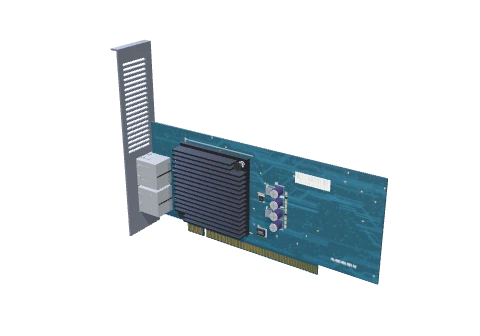
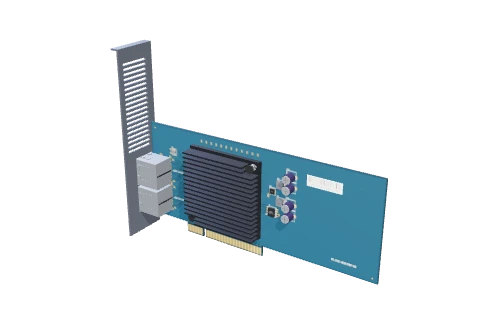
NIC: parts placed from the copper plan; a dressed solder side
The masks draw the routed copper on both faces and the finger tab.
The back gets its caps, solder joints, peg and push-pin tips, a serial label.

Changed region(s): [[0.3125, 0.3571, 0.8125, 0.8333]]

diff --git a/src/features/board/render/three/nic3d.ts b/src/features/board/render/three/nic3d.ts
@@ -5,13 +5,14 @@
 // lidded BGA under a finned sink with its push pins on the faster cards (the fins run along the card, in the case's front-to-back air). Its 25 MHz
 // crystal, the SPI flash on its gull-wing legs, the core rail's regulator with its inductors and polymer capacitors, the passives, the MAC
 // label, and the solder mask with its traces and silkscreen.
-import { BoxGeometry, Group, type Material, type Vector2 } from 'three';
+import { BoxGeometry, Group, LatheGeometry, Vector2, type Material } from 'three';
 import { drum, instanced, rectBox, tube, type RectLike } from '@/core/render/three/geometry';
 import { mat } from '@/core/render/three/materials';
 import { decal, outlinePts, tex, wallPt, wallX, type Span } from './casekit3d';
 import { prismX, type CardFrame } from './gpu3d';
-import { JACK, JACK_X, jacksOf } from './niccopper';
-import { crystal, decalMat, inductor, maskTop, MM, passiveRow, passives, pkg, type Passive } from './pcbkit3d';
+import { CU, JACK, JACK_X, jacksOf, type Face, type NicCopper } from './niccopper';
+import { crystal, decalMat, inductor, maskTop, MM, passives, pkg, type MaskCopper, type Passive } from './pcbkit3d';
+import { KEY, TAB } from './pcie';
 import { springGold, unshadowed } from './rj45jack3d';
 
 export { JACK, JACK_X, jacksOf };
@@ -87,22 +88,49 @@ function macLabel(visual: string): ReturnType<typeof tex> {
   });
 }
 
-/** A SOIC-8 (the SPI flash) under the u-group's PCB at `zu`: its body, `x` and layout `y` its corner, four gull-wing legs on each long side. */
-function soic8(u: Group, x: number, y: number, zu: number, lines: string[], tin: Material): void {
-  const bw = 4.9 * MM, bh = 3.9 * MM, H = 1.45 * MM;
-  pkg(u, { x, y: -(y + bh), w: bw, h: bh }, zu + 0.12 * MM, H - 0.12 * MM, lines);
+/**
+ * A SOIC-8 (the SPI flash) under the u-group's PCB at `zu`, turned: its body over the layout rect `r` (pin 1 at its north-west), four gull-wing
+ * legs down each of its west and east sides onto their pads.
+ */
+function soic8(u: Group, r: RectLike, zu: number, lines: string[], tin: Material): void {
+  pkg(u, { x: r.x, y: -(r.y + r.h), w: r.w, h: r.h }, zu + 0.12 * MM, 1.33 * MM, lines);
   const legs: { x: number; y: number; z: number; sx: number; sy: number; sz: number }[] = [];
   for (let k = 0; k < 4; k++) {
-    const lx = x + bw / 2 + (k - 1.5) * 1.27 * MM;
+    const ly = r.y + r.h / 2 + (k - 1.5) * 1.27 * MM;
     for (const s of [-1, 1]) {
-      const edge = s < 0 ? y : y + bh;
+      const edge = s < 0 ? r.x : r.x + r.w;
       // out of the body at half height, down, and the foot on its pad
-      legs.push({ x: lx, y: edge + s * 0.35 * MM, z: zu + 0.75 * MM, sx: 0.42 * MM, sy: 0.7 * MM, sz: 0.2 * MM });
-      legs.push({ x: lx, y: edge + s * 0.7 * MM, z: zu + 0.45 * MM, sx: 0.42 * MM, sy: 0.2 * MM, sz: 0.62 * MM });
-      legs.push({ x: lx, y: edge + s * 1.0 * MM, z: zu + 0.1 * MM, sx: 0.42 * MM, sy: 0.7 * MM, sz: 0.2 * MM });
+      legs.push({ x: edge + s * 0.35 * MM, y: ly, z: zu + 0.75 * MM, sx: 0.7 * MM, sy: 0.42 * MM, sz: 0.2 * MM });
+      legs.push({ x: edge + s * 0.7 * MM, y: ly, z: zu + 0.45 * MM, sx: 0.2 * MM, sy: 0.42 * MM, sz: 0.62 * MM });
+      legs.push({ x: edge + s * 1.0 * MM, y: ly, z: zu + 0.1 * MM, sx: 0.7 * MM, sy: 0.42 * MM, sz: 0.2 * MM });
     }
   }
   u.add(instanced(new BoxGeometry(1, 1, 1), tin, legs));
+}
+
+/** The card's mask and the copper under it (the face's own colour, its traces a shade lighter). */
+const MASK = { mask: '#0f3a49', trace: '#185067' };
+/** One face's copper (`nicCopper`) for its mask: the runs on it, every via and hole, the ground pour round the rest. */
+const copperOf = (cu: NicCopper, face: Face): MaskCopper => ({
+  traces: cu.traces.filter((t) => t.layer === face).map((t) => ({ pts: t.pts, w: t.w, gnd: t.net === 'GND' })),
+  vias: cu.vias.map((v) => ({ x: v.x, y: v.y, gnd: v.net === 'GND' })),
+  holes: cu.holes.map((h) => ({ x: h.x, y: h.y, square: h.square, gnd: h.net === 'GND', ring: h.ring, hole: h.drill })),
+  npth: cu.npth,
+  keep: cu.pads.filter((p) => p.face === face && p.net !== 'GND' && !p.edge).map((p) => p.r),
+  fiducials: face === 'top' ? cu.fiducials.map(([x, y]) => ({ x, y, r: CU.fid })) : [],
+  via: CU.via, drill: CU.drill, ring: CU.via, hole: CU.drill, pour: { clear: CU.pour, edge: CU.edge, round: 0 },
+});
+
+/**
+ * The finger tab's face (`face` of it at depth z: the tab stands 1 unit thinner on the back than the PCB, so the fingers stand proud of it):
+ * the gold fingers' lands, the runs from them up into the board, the key cut out. No pour: the fingers' strip is bare of ground.
+ */
+function tabMask(cu: NicCopper, f: CardFrame, face: Face, z: number): ReturnType<typeof maskTop> {
+  const r = { x: cu.tab.x, y: f.y0 - TAB, w: cu.tab.w, h: TAB };
+  return maskTop(`nic-tab-${face}:${cu.key}`, r, z, {
+    ...MASK, seed: 0, pads: cu.pads.filter((p) => p.edge && p.face === face).map((p) => p.r), cuts: [{ rect: { x: cu.tab.x + KEY.at, y: r.y, w: KEY.w, h: TAB } }],
+    copper: { traces: cu.traces.filter((t) => t.layer === face).map((t) => ({ pts: t.pts, w: t.w })), vias: [], via: CU.via, drill: CU.drill, ring: CU.via, hole: CU.drill },
+  }, { under: face === 'top', px: 24 });
 }
 
 /** A polymer capacitor: an aluminium can in its sleeve on a black seat, the vent's cross pressed in its top; at layout (x, y), under the u-group's PCB. */
@@ -116,7 +144,7 @@ function polyCap(u: Group, x: number, y: number, zu: number, r: number, h: numbe
  * Every part on the NIC's component side, under the PCB (`Zp` its underside): the jacks, the controller (with its sink), the crystal, the flash,
  * the regulator and its inductors and capacitors, the passives, the MAC label and the mask. `inX`: the bracket's inner face.
  */
-export function nicParts(g: Group, visual: string, f: CardFrame, Zp: number, inX: number): void {
+export function nicParts(g: Group, visual: string, f: CardFrame, Zp: number, inX: number, cu: NicCopper): void {
   const steel = mat(0x9ea5ae, { metalness: 0.8, roughness: 0.44 }), tin = mat(0xc4c9d0, { metalness: 0.9, roughness: 0.32 });
   const M: JackMats = {
     steel, plastic: mat(0x0f1013, { roughness: 0.62 }), back: mat(0x24262b, { roughness: 0.6 }), gold: springGold(),
@@ -128,11 +156,10 @@ export function nicParts(g: Group, visual: string, f: CardFrame, Zp: number, inX
   const u = new Group(), zu = -Zp, U = (r: RectLike): RectLike => ({ x: r.x, y: -(r.y + r.h), w: r.w, h: r.h });
   u.rotation.x = Math.PI;
   g.add(u);
-  const C = CTRL[visual] ?? CTRL['nic-gbe']!, cs = C.chip * MM, ss = Math.max(C.sink * MM, cs), jx1 = JACK_X + JACK.d;
-  const sx = jx1 + 11 * MM, cyc = f.y0 + 29 * MM, sy = cyc - ss / 2, chip = { x: sx + (ss - cs) / 2, y: cyc - cs / 2, w: cs, h: cs };
-  const caps: Passive[] = [], parts: { r: RectLike; ref?: string }[] = [];
-  if (!C.sink) {
-    // a QFN: its body and the pads along its four edges at a 0.5 mm pitch
+  const C = CTRL[visual] ?? CTRL['nic-gbe']!, a = cu.at, chip = a.chip, cs = chip.w, jx1 = JACK_X + JACK.d;
+  const parts: { r: RectLike; ref?: string }[] = [{ r: chip, ref: 'U1' }];
+  if (a.qfn) {
+    // a QFN: its body and its terminals along its four edges at a 0.5 mm pitch, each over its pad
     pkg(u, U(chip), zu, 0.9 * MM, C.mark);
     const pads = [];
     for (let k = 0; k < 16; k++) {
@@ -141,9 +168,9 @@ export function nicParts(g: Group, visual: string, f: CardFrame, Zp: number, inX
       pads.push({ x: chip.x - 0.12 * MM, y: chip.y + cs / 2 + o, z: zu + 0.1 * MM, sx: 0.3 * MM, sy: 0.25 * MM, sz: 0.2 * MM }, { x: chip.x + cs + 0.12 * MM, y: chip.y + cs / 2 + o, z: zu + 0.1 * MM, sx: 0.3 * MM, sy: 0.25 * MM, sz: 0.2 * MM });
     }
     u.add(instanced(new BoxGeometry(1, 1, 1), tin, pads));
-    caps.push(...passiveRow(chip.x - 1.5 * MM, chip.y + 1 * MM, 7, 1.1 * MM, '0402', 'cap', false, true), ...passiveRow(chip.x + 1 * MM, chip.y + cs + 1.5 * MM, 7, 1.1 * MM, '0402', 'cap', true));
   } else {
     // a lidded BGA under the sink: its base on a thermal pad, fins along the card, the push pins through two opposite corners
+    const { x: sx, y: sy, w: ss } = a.sink!;
     pkg(u, U(chip), zu, 2.4 * MM, C.mark, { lid: true });
     const sinkM = mat(C.sinkHex, { metalness: C.sinkHex > 0x808080 ? 0.75 : 0.45, roughness: 0.4 }), b0 = zu + 2.7 * MM, b1 = b0 + 2.5 * MM;
     u.add(rectBox(U({ x: sx, y: sy, w: ss, h: ss }), b0, b1, sinkM));
@@ -162,39 +189,78 @@ export function nicParts(g: Group, visual: string, f: CardFrame, Zp: number, inX
       for (let k = 0; k <= 72; k++) { const a = (k / 72) * Math.PI * 2 * 4; coil.push([px + Math.cos(a) * 1.6 * MM, py + Math.sin(a) * 1.6 * MM, b1 + 0.2 * MM + (k / 72) * 3.2 * MM]); }
       u.add(tube(coil, 0.18 * MM, spring, 6));
     }
-    for (const s of [-1, 1]) caps.push(...passiveRow(sx + 4 * MM, s < 0 ? sy - 1.6 * MM : sy + ss + 1.6 * MM, 12, ss / 13, '0402', 'cap', true));
   }
-  parts.push({ r: { x: sx, y: sy, w: ss, h: ss }, ref: 'U1' });
-  // the crystal between the jacks and the controller, its two load capacitors beside it
-  const xr = { x: jx1 + 3.5 * MM, y: cyc + 5 * MM, w: 3.2 * MM, h: 2.5 * MM };
-  crystal(u, U(xr), zu, 0.8 * MM, '25.000');
-  caps.push({ x: xr.x + 0.8 * MM, y: xr.y + xr.h + 1.4 * MM, pkg: '0402', kind: 'cap' }, { x: xr.x + 2.6 * MM, y: xr.y + xr.h + 1.4 * MM, pkg: '0402', kind: 'cap' });
-  parts.push({ r: xr, ref: 'Y1' });
-  // the flash, the core rail's regulator with its two inductors, the polymer capacitors past them
-  const ex = sx + ss + 4 * MM;
-  soic8(u, ex, f.y0 + 7 * MM, zu, ['25Q32JV', 'SIQ 2240'], tin);
-  parts.push({ r: { x: ex, y: f.y0 + 7 * MM, w: 4.9 * MM, h: 3.9 * MM }, ref: 'U2' });
-  const reg = { x: ex + 0.5 * MM, y: cyc - 1.5 * MM, w: 3 * MM, h: 3 * MM };
-  pkg(u, U(reg), zu, 0.85 * MM, ['PL3A']);
-  parts.push({ r: reg, ref: 'U3' });
-  for (const [k, iy] of [[1, cyc - 9 * MM], [2, cyc + 4 * MM]] as const) {
-    const ir = { x: ex + 5.5 * MM, y: iy, w: 4 * MM, h: 4 * MM };
-    inductor(u, U(ir), zu, 2 * MM, k === 1 ? 'R47' : '1R0');
-    parts.push({ r: ir, ref: `L${k}` });
-  }
+  // the crystal between the jacks and the controller, the flash east of it, the regulator (a dual buck) with its two inductors and the polymer
+  // capacitors past them, each on its lands (`nicCopper`)
+  crystal(u, U(a.crystal), zu, 0.8 * MM, '25.000');
+  soic8(u, a.flash, zu, ['25Q32JV', 'SIQ 2240'], tin);
+  pkg(u, U(a.reg), zu, 0.85 * MM, ['PL3A']);
+  a.inductors.forEach((r, k) => inductor(u, U(r), zu, 2 * MM, k ? '1R0' : 'R47'));
   const capMs = { seat: mat(0x101114, { roughness: 0.6 }), sleeve: mat(0x2b2350, { roughness: 0.45, metalness: 0.2 }), can: mat(0xc9ced5, { metalness: 0.85, roughness: 0.3 }), vent: mat(0x6c727b, { metalness: 0.6, roughness: 0.5 }) };
-  const pc = ex + 13 * MM, pr = 2.5 * MM;
-  [cyc - 12 * MM, cyc - 5.5 * MM, cyc + 1 * MM, cyc + 7.5 * MM].forEach((py, k) => { polyCap(u, pc, py, zu, pr, 5.8 * MM, capMs); parts.push({ r: { x: pc - pr, y: py - pr, w: 2 * pr, h: 2 * pr }, ref: `C${k + 11}` }); });
-  // the passives: the regulator's ring, the bulk capacitors' column, the strap resistors
-  caps.push(...passiveRow(ex + 0.5 * MM, cyc + 3 * MM, 3, 1.4 * MM, '0603', 'cap'), ...passiveRow(pc + 4.5 * MM, cyc - 12 * MM, 9, 2.4 * MM, '0805', 'cap', true, true));
-  caps.push(...passiveRow(ex + 6 * MM, f.y0 + 7.5 * MM, 6, 1.1 * MM, '0402', 'res', true));
-  passives(u, caps.map((p) => ({ ...p, y: -p.y })), zu);
-  // the MAC label past the capacitors, and the mask with its silkscreen
-  const label = { x: Math.min(pc + 9 * MM, f.x1 - 24 * MM), y: f.end - 14 * MM, w: 20 * MM, h: 6.2 * MM }, lt = macLabel(visual);
-  if (lt) u.add(decal(U(label), zu + 0.15 * MM, decalMat(lt, { rough: 0.7 })));
-  const speed = visual === 'nic-40g' ? '40G' : visual === 'nic-10g' ? '10G' : '1G';
-  const text = [{ x: f.x1 - 26 * MM, y: f.y0 + 6 * MM, s: `PL-NIC ${speed} REV A2`, mm: 1.6 }, ...ys.map((y, k) => ({ x: jx1 + 1 * MM, y: y + JACK.w / 2, s: `LAN${k + 1}  LNK ACT`, mm: 1.1 }))];
-  g.add(maskTop(`nic-under:${visual}`, { x: f.x0, y: f.y0, w: f.x1 - f.x0, h: f.end - f.y0 }, Zp, { mask: '#0f3a49', trace: '#185067', parts, text, seed: 31 + ys.length }, { under: true, px: 14 }));
+  for (const c of a.cans) polyCap(u, c.x, c.y, zu, c.r, 5.8 * MM, capMs);
+  parts.push({ r: a.crystal, ref: 'Y1' }, { r: a.flash, ref: 'U2' }, { r: a.reg, ref: 'U3' }, ...a.inductors.map((r, k) => ({ r, ref: `L${k + 1}` })), ...a.cans.map((c) => ({ r: { x: c.x - c.r, y: c.y - c.r, w: 2 * c.r, h: 2 * c.r }, ref: c.ref })));
+  // the passives on this face: the crystal's load capacitors, the lights' resistors, the flash's and the regulator's capacitors, a BGA's row by
+  // its sink
+  passives(u, cu.parts.filter((p) => p.face === 'top').map((p): Passive => ({ x: p.x, y: -p.y, pkg: p.pkg, kind: p.kind, turn: p.turn })), zu);
+  // the MAC label, and the mask over the copper with its silkscreen
+  const lt = macLabel(visual);
+  if (lt) u.add(decal(U(a.label), zu + 0.15 * MM, decalMat(lt, { rough: 0.7 })));
+  const text = [{ x: f.x1 - 26 * MM, y: f.y0 + 6 * MM, s: `PL-NIC ${SPEED[visual] ?? '1G'} REV A2`, mm: 1.6 }, ...ys.map((y, k) => ({ x: jx1 + 1 * MM, y: y + JACK.w / 2, s: `LAN${k + 1}  LNK ACT`, mm: 1.1 }))];
+  const f1 = cu.pads.find((p) => p.id === 'U2.1')!, dots = [{ x: f1.r.x - 0.5 * MM, y: f1.r.y - 0.4 * MM, r: 0.25 * MM }];
+  if (a.qfn) dots.push({ x: chip.x - 0.9 * MM, y: chip.y - 0.9 * MM, r: 0.25 * MM });
+  const board = { x: f.x0, y: f.y0, w: f.x1 - f.x0, h: f.end - f.y0 };
+  g.add(maskTop(`nic-under:${cu.key}`, board, Zp, { ...MASK, parts, text, seed: 0, copper: { ...copperOf(cu, 'top'), dots }, pads: cu.pads.filter((p) => p.face === 'top' && !p.edge).map((p) => p.r) }, { under: true, px: 24 }));
+  g.add(tabMask(cu, f, 'top', Zp));
+}
+
+/** Each card's speed, on its silkscreen. */
+const SPEED: Record<string, string> = { 'nic-gbe': '1G', 'nic-10g': '10G', 'nic-40g': '40G' };
+
+/** The serial label on the back: a white sticker with its barcode, the serial number and the part number. */
+function serialLabel(visual: string): ReturnType<typeof tex> {
+  return tex(`nic-sn:${visual}`, 640, 220, (c, w, h) => {
+    c.fillStyle = '#efefea'; c.fillRect(0, 0, w, h);
+    let s = visual.length * 104729;
+    const rnd = () => ((s = (s * 16807) % 2147483647) / 2147483647);
+    c.fillStyle = '#16181c';
+    for (let x = 28; x < w - 28;) { const bw = 2 + Math.floor(rnd() * 3) * 2; if (rnd() > 0.45) c.fillRect(x, 70, bw, h * 0.36); x += bw + 2 + Math.floor(rnd() * 3) * 2; }
+    c.font = '600 30px "Consolas", "DejaVu Sans Mono", monospace'; c.textBaseline = 'middle';
+    c.fillText(`PL-NIC-${SPEED[visual] ?? '1G'}  P/N 9C${visual.length}41-A2`, 28, 36);
+    c.fillText(`S/N PLN${(SPEED[visual] ?? '1G').padStart(3, '0')}2244A0${1700 + visual.length * 13}`, 28, h - 34);
+  });
+}
+
+/**
+ * The NIC's back (its solder side, the top face lying, at Z): the mask over its copper (the transmit pairs' capacitors by the fingers, the jacks'
+ * centre taps', a BGA's decoupling field under it, the ground pour and its stitching), the passives on it, the solder joints over every
+ * through-hole pin, the jacks' plastic pegs and the sink's push pins through their holes, the serial label and the silkscreen.
+ */
+export function nicBack(g: Group, visual: string, f: CardFrame, Z: number, cu: NicCopper): void {
+  const a = cu.at, L = f.x1 - f.x0, sp = SPEED[visual] ?? '1G', s = a.serial;
+  const text = [
+    { x: s.x, y: f.end - 11 * MM, s: `PL-NIC ${sp}  REV A2`, mm: 1.8 },
+    { x: s.x, y: f.end - 7.6 * MM, s: '94V-0   E224410   2244', mm: 1.1 },
+    { x: s.x, y: f.end - 4.6 * MM, s: 'CE   FCC   RoHS', mm: 1.3 },
+    { x: f.x0 + 2.5 * MM, y: f.end - 3.5 * MM, s: `PCB-NIC${sp}-4L`, mm: 0.9 },
+  ];
+  const board = { x: f.x0, y: f.y0, w: L, h: f.end - f.y0 };
+  g.add(maskTop(`nic-back:${cu.key}`, board, Z, { ...MASK, text, seed: 0, copper: copperOf(cu, 'bottom'), pads: cu.pads.filter((p) => p.face === 'bottom' && !p.edge).map((p) => p.r) }, { px: 24 }));
+  g.add(tabMask(cu, f, 'bottom', Z - 1));
+  passives(g, cu.parts.filter((p) => p.face === 'bottom').map((p): Passive => ({ x: p.x, y: p.y, pkg: p.pkg, kind: p.kind, turn: p.turn })), Z);
+  // the through-hole pins' tails cut short in their solder: a fillet over each ring climbing to its rounded tip (tpm3d's), sized to the ring
+  const joint = new LatheGeometry([[15, 0], [13, 1], [10.6, 2.6], [9, 4.6], [8, 7.2], [7.4, 10.5], [7.2, 15], [6.6, 18], [5, 20], [2.6, 21], [0, 21.3]].map(([r, z]) => new Vector2(r, z)), 20).rotateX(Math.PI / 2);
+  g.add(instanced(joint, mat(0xb9bec6, { metalness: 0.92, roughness: 0.22 }), cu.holes.map((h) => ({ x: h.x, y: -h.y, z: Z, sx: h.ring / 16, sy: h.ring / 16 }))));
+  // the jacks' plastic pegs, split, just through the board; a BGA's push pins' barbed tips, split, through the sink's corners
+  const C = CTRL[visual] ?? CTRL['nic-gbe']!, peg = mat(0x121316, { roughness: 0.6 }), slit = mat(0x050506, { roughness: 0.9 });
+  const sinkPins = a.sink ? cu.npth.slice(-2) : [];
+  for (const h of cu.npth) {
+    const pin = sinkPins.includes(h), m = pin ? mat(C.pinHex, { roughness: 0.55 }) : peg, r = h.r - 0.15 * MM, t = (pin ? 1.2 : 0.8) * MM;
+    g.add(drum(h.x, h.y, Z, Z + t, r, m, 20));
+    if (pin) g.add(drum(h.x, h.y, Z + t, Z + t + 0.4 * MM, r * 0.75, m, 20));
+    g.add(rectBox({ x: h.x - r - 0.05 * MM, y: h.y - 0.2 * MM, w: 2 * r + 0.1 * MM, h: 0.4 * MM }, Z + 0.2 * MM, Z + t + (pin ? 0.45 : 0.05) * MM, slit));
+  }
+  const st = serialLabel(visual);
+  if (st) g.add(decal(s, Z + 0.15 * MM, decalMat(st, { rough: 0.7 })));
 }
 
 /** The NIC's bracket, lying (`s` its plate): the plate with each jack's opening, a hair larger than its shield, and vent slots past them. */

diff --git a/src/features/board/render/three/nic3d.test.ts b/src/features/board/render/three/nic3d.test.ts
@@ -3,13 +3,16 @@ import { Box3, Group } from 'three';
 import { BD, NIC_BRACKET_X, NIC_LEN, nicY, setLayoutTier } from '../layout/layout';
 import { cardReach, HINGE_Z, nicJackAt, STAND } from './card3d';
 import type { CardFrame } from './gpu3d';
-import { JACK, JACK_X, jacksOf, MOUTH, mouthAt, nicParts } from './nic3d';
+import { JACK, JACK_X, jacksOf, MOUTH, mouthAt, nicBack, nicParts } from './nic3d';
+import { NIC_LANES, nicCopper } from './niccopper';
+import { TAB, tabOf } from './pcie';
 
 const MM = 23, Z = HINGE_Z, PCB_T = 24, Zp = Z - PCB_T;
 const frame = (visual: string): CardFrame => {
   const y0 = nicY(0), x1 = BD.x + NIC_LEN[visual]!;
   return { x0: BD.x, x1, xe: x1, y0, end: y0 + STAND.nic };
 };
+const copper = (visual: string, f: CardFrame) => nicCopper(visual, f, tabOf(0, f.x1, NIC_LANES[visual]!));
 
 describe("the network card's real parts", () => {
   it('builds the RJ45 jacks at their real size, out through the bracket, and seats the LAN plug in the first one\'s mouth', () => {
@@ -33,18 +36,37 @@ describe("the network card's real parts", () => {
     }
   });
 
-  it('keeps every part on the component side, inside the card\'s reach and its outline', () => {
+  it('keeps every part on the component side, inside the card\'s reach and its outline (the finger tab\'s face down in the slot)', () => {
     setLayoutTier(3, 3);
     for (const visual of ['nic-gbe', 'nic-10g', 'nic-40g']) {
       const f = frame(visual), g = new Group();
-      nicParts(g, visual, f, Zp, NIC_BRACKET_X + 24);
+      nicParts(g, visual, f, Zp, NIC_BRACKET_X + 24, copper(visual, f));
       const b = new Box3().setFromObject(g);
       expect(Z - b.min.z, visual).toBeLessThanOrEqual(cardReach('nic', visual).south + 1);
       expect(b.max.z, visual).toBeLessThanOrEqual(Zp + 1);
       expect(-b.min.y, visual).toBeLessThanOrEqual(f.end + 1);
-      expect(-b.max.y, visual).toBeGreaterThanOrEqual(f.y0 - 1);
+      expect(-b.max.y, visual).toBeGreaterThanOrEqual(f.y0 - TAB - 1);
       expect(b.min.x, visual).toBeGreaterThanOrEqual(JACK_X - 1);
       expect(b.max.x, visual).toBeLessThanOrEqual(f.x1 + 1);
+    }
+  });
+
+  it('dresses the back (the solder side): its parts, joints and pin tips stand low over it, inside the card\'s outline', () => {
+    setLayoutTier(3, 3);
+    for (const visual of ['nic-gbe', 'nic-10g', 'nic-40g']) {
+      const f = frame(visual), g = new Group(), cu = copper(visual, f);
+      nicBack(g, visual, f, Z, cu);
+      const b = new Box3().setFromObject(g);
+      // above the tab's face (a unit under the PCB's), under the card's reach north of the slot's line
+      expect(b.min.z, visual).toBeGreaterThanOrEqual(Z - 1.5);
+      expect(b.max.z - Z, visual).toBeLessThanOrEqual(cardReach('nic', visual).north);
+      expect(-b.min.y, visual).toBeLessThanOrEqual(f.end + 1);
+      expect(-b.max.y, visual).toBeGreaterThanOrEqual(f.y0 - TAB - 1);
+      expect(b.min.x, visual).toBeGreaterThanOrEqual(f.x0 - 1);
+      expect(b.max.x, visual).toBeLessThanOrEqual(f.x1 + 1);
+      // a joint over every through-hole pin, a tip through every unplated hole, the solder side's passives
+      expect(cu.holes.length, visual).toBeGreaterThanOrEqual(10 * jacksOf(visual, f.y0).length);
+      expect(cu.parts.filter((p) => p.face === 'bottom').length, visual).toBeGreaterThan(4);
     }
   });
 });

diff --git a/src/features/board/render/three/card3d.ts b/src/features/board/render/three/card3d.ts
@@ -21,8 +21,8 @@ import { LV_PART, LV_RAISED, type ArtSet } from './artset3d';
 import type { Spin } from './fans3d';
 import { wallX, type Span } from './casekit3d';
 import { gpuBackplate, gpuCooler, gpuOutputs, gpuSockets, OUT_IN, OUT_TOP, outDepth, OUTPUTS, outputHoles } from './gpu3d';
-import { JACK, JACK_X, jacksOf, mouthAt, nicBracket, nicParts } from './nic3d';
-import { NIC_LANES } from './niccopper';
+import { JACK, JACK_X, jacksOf, mouthAt, nicBack, nicBracket, nicParts } from './nic3d';
+import { NIC_LANES, nicCopper } from './niccopper';
 import { npuBackplate, npuBracket, npuCooler } from './npu3d';
 import { gold, passives, pcbSlab, type Passive } from './pcbkit3d';
 import { FINGER, KEY, pinAt, TAB, tabOf, txPin } from './pcie';
@@ -143,7 +143,9 @@ export function card3d(kind: CardKind, visual: string, slot: number, face: (pare
     skin.push(npuCooler(fades, spins, visual, f, Zp, ct));
     npuBackplate(fades, visual, f, Z, BACK_T);
   } else {
-    nicParts(fades, visual, f, Zp, bx1);
+    const cu = nicCopper(visual, f, tab);
+    nicParts(fades, visual, f, Zp, bx1, cu);
+    nicBack(fades, visual, f, Z, cu);
     skin.push(pcbM);
   }
   // a GPU's 8-pin power sockets on the top edge, on the cooler's side, the mouths toward the glass (standing)

diff --git a/src/features/board/render/three/niccopper.ts b/src/features/board/render/three/niccopper.ts
@@ -50,6 +50,9 @@ export interface NicCopper {
   traces: Trace[]; vias: Via[]; pads: Pad[]; holes: Hole[]; npth: Npth[]; parts: Part[]; fiducials: Pt[];
   /** The board's outline: the PCB with its finger tab, split by the key. */
   outline: Pt[];
+  /** The finger tab (layout x: its bracket end and length), and a key naming this copper (the card, its link width, the tab's place). */
+  tab: { x: number; w: number };
+  key: string;
   at: NicPlaces;
   /** The link width the copper is routed for (a narrower one where the slot cuts the tab short). */
   lanes: number;
@@ -395,7 +398,7 @@ export function nicCopper(visual: string, f: { x0: number; x1: number; y0: numbe
     npth: npth.map((h) => ({ x: X(h.x), y: Y(h.y), r: h.r * MM })),
     parts: parts.map((q) => ({ ...q, x: X(q.x), y: Y(q.y) })),
     fiducials: fids.map(pt),
-    outline,
+    outline, tab, key: `${visual}:x${lanes}:${Math.round(tab.x - f.x0)}:${Math.round(tab.w)}`,
     at: {
       chip: rect(chip), qfn, sink: sink && rect(sink), crystal: rect(crystal), flash: rect(flashR), reg: rect(regR),
       inductors: inductors.map(rect), cans: cans.map((c) => ({ ...c, x: X(c.x), y: Y(c.y), r: c.r * MM })),
